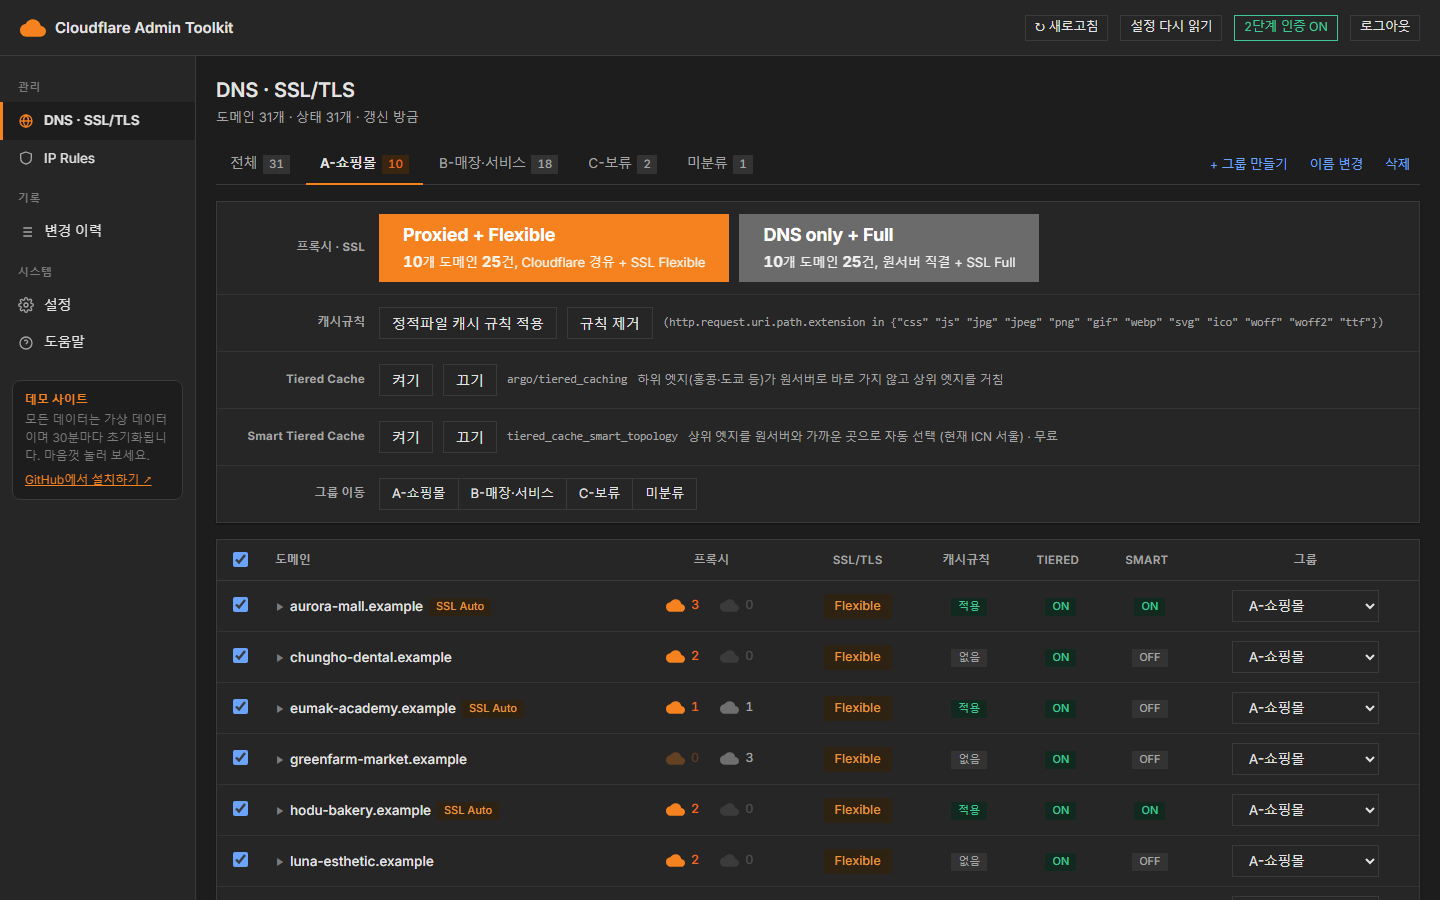
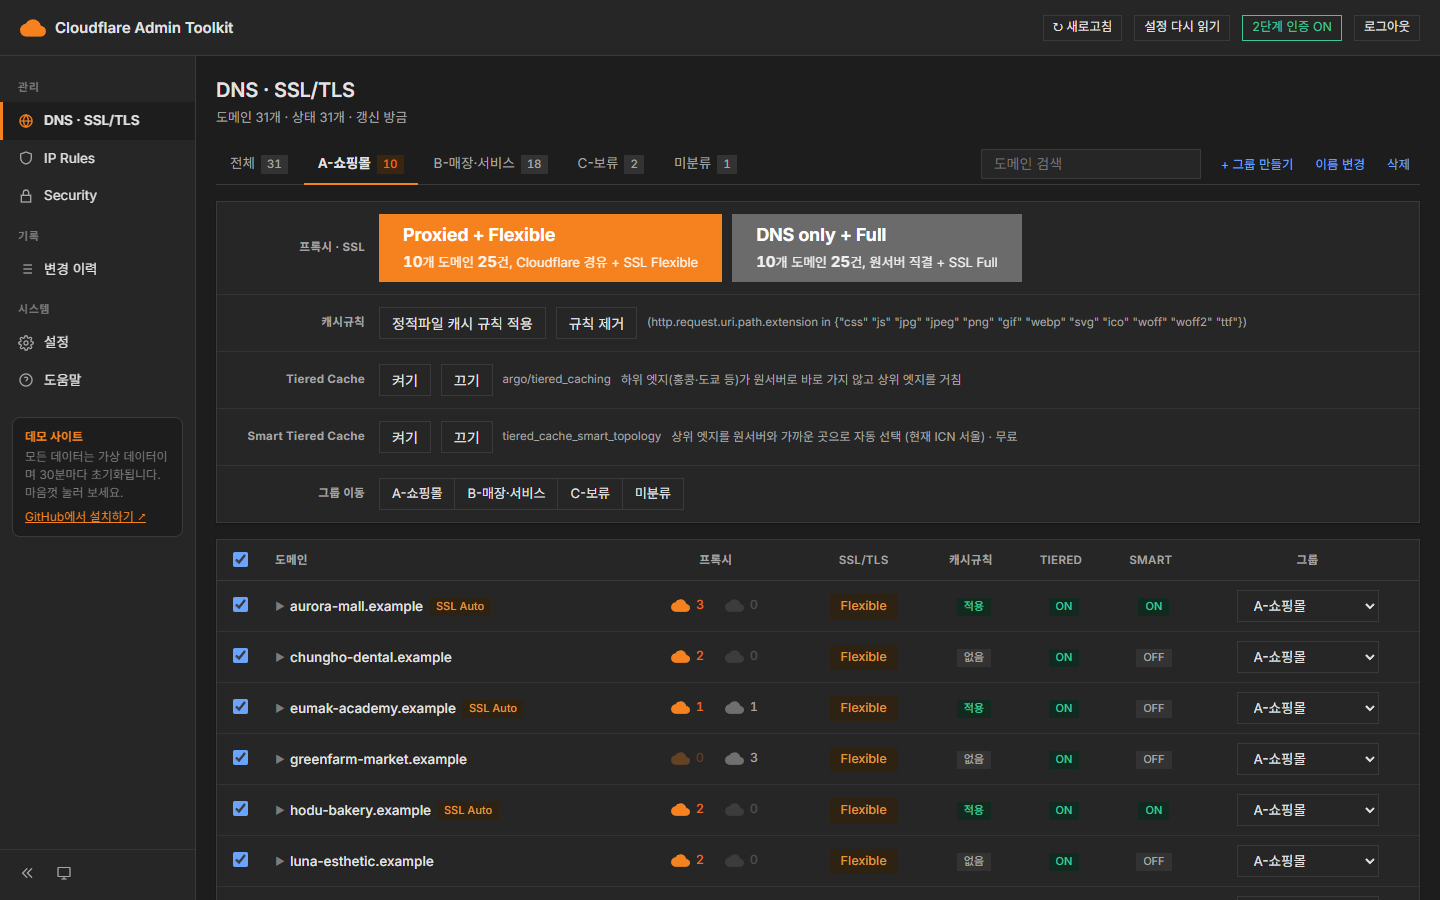
스크린샷 갱신 — Security 메뉴 추가

diff --git a/README.md b/README.md
@@ -15,6 +15,8 @@ It runs on your own Cloudflare Workers (free plan works). No external server, ze
 
 ![DNS · SSL/TLS — bulk proxy/SSL switching per group, with cache rules and Tiered Cache](docs/domains.png)
 
+![Security — apply and update the Scan check rule on every zone at once](docs/security.png)
+
 ![IP Rules — browse, classify and bulk-manage thousands of IP Access Rules](docs/ip-rules.png)
 
 ---

diff --git a/README.ko.md b/README.ko.md
@@ -13,6 +13,8 @@
 
 ![DNS · SSL/TLS — 그룹 단위 프록시/SSL 일괄 전환, 캐시 규칙 · Tiered Cache](docs/domains.png)
 
+![Security — Scan check 규칙을 모든 도메인에 한 번에 적용 · 업데이트](docs/security.png)
+
 ![IP Rules — 수천 개 IP Access Rules 조회 · 분류 · 일괄 관리](docs/ip-rules.png)
 
 ---
